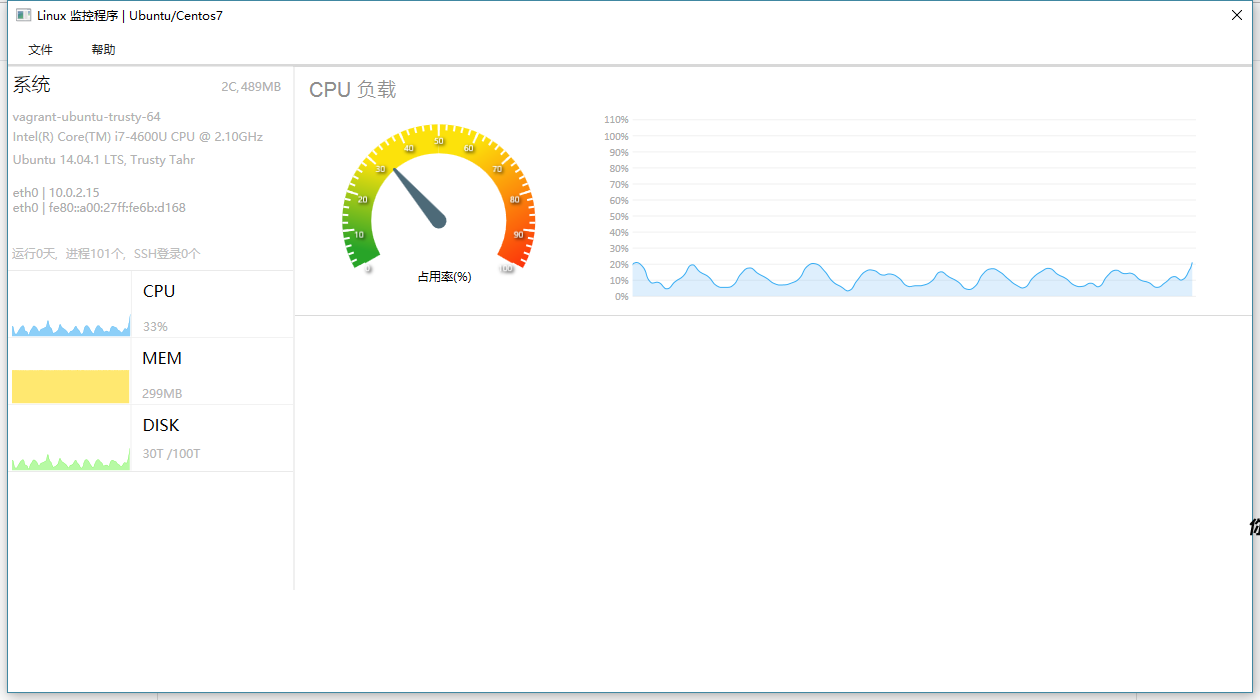
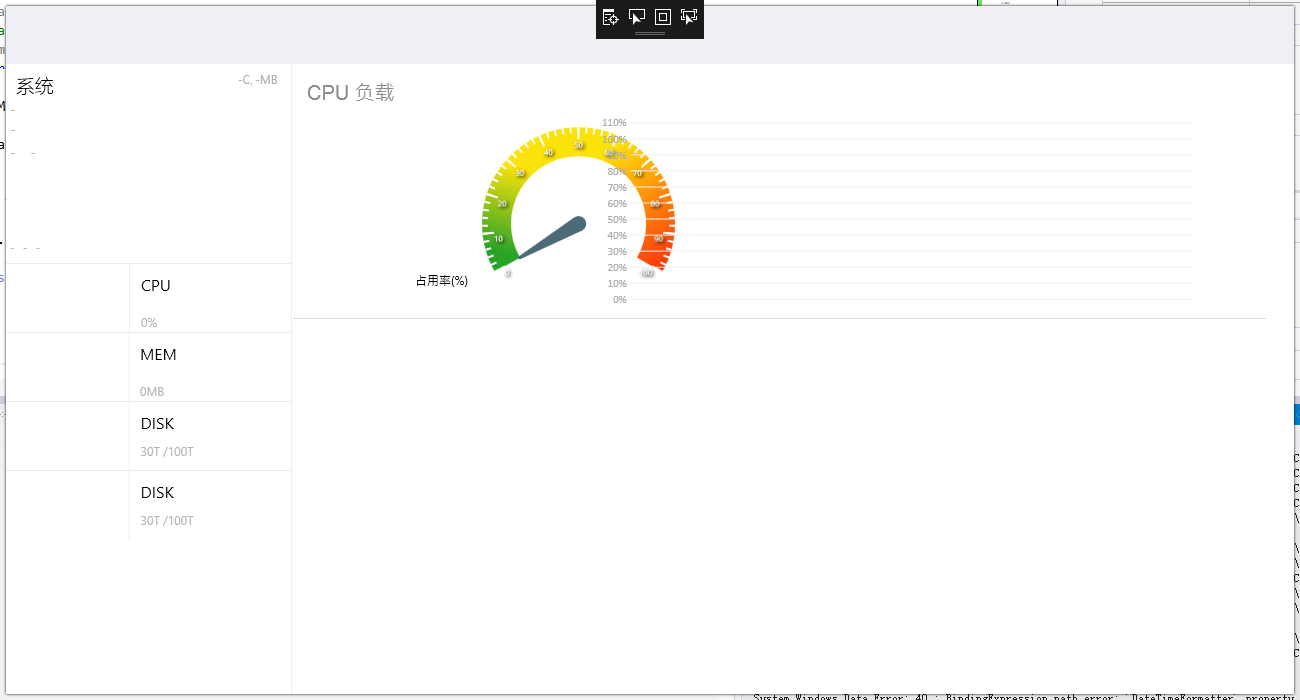
update: adjust theme to white and update readme

diff --git a/Main/Views/MainWindow.xaml b/Main/Views/MainWindow.xaml
@@ -8,14 +8,14 @@
         AllowsTransparency="True"
         x:Name="PrimaryWindow"
         x:Class="Bee.Eye.Views.MainWindow"
-        BorderThickness="25"
+        BorderThickness="6"
         prism:ViewModelLocator.AutoWireViewModel="True"
         Title="{Binding Title}" Height="700" Width="1300" ResizeMode="NoResize">
   <Window.Effect>
-    <DropShadowEffect Opacity="0.3" Direction="90" Color="#FF3A3A3A" ShadowDepth="3" BlurRadius="24"/>
+    <DropShadowEffect Opacity="1" Direction="90" Color="#FF040404" ShadowDepth="0" BlurRadius="4"/>
   </Window.Effect>
   <Grid x:Name="MainGrid" Margin="0,0,0,0">
-    <ContentControl x:Name="NavRegion"  prism:RegionManager.RegionName="NavRegion" MinHeight="30" Margin="0,0,0,475" HorizontalAlignment="Left" Width="1250" Height="175" />
-    <ContentControl x:Name="MainRegion" prism:RegionManager.RegionName="MainRegion" Margin="0,175,0,0" HorizontalAlignment="Left" Width="1250" Height="475"/>
+    <ContentControl x:Name="NavRegion" MouseMove="NavRegion_MouseMove" prism:RegionManager.RegionName="NavRegion" MinHeight="50" Margin="0,0,0,630" HorizontalAlignment="Left" Width="1288" />
+    <ContentControl x:Name="MainRegion" prism:RegionManager.RegionName="MainRegion" Margin="0,58,0,0" HorizontalAlignment="Left" Width="1288"/>
   </Grid>
 </Window>

diff --git a/Dashboard/Views/CapacityPage.xaml b/Dashboard/Views/CapacityPage.xaml
@@ -6,7 +6,7 @@
       xmlns:local="clr-namespace:Dashboard.Views"
       xmlns:Wpf="clr-namespace:LiveCharts.Wpf;assembly=LiveCharts.Wpf" x:Class="Dashboard.Views.CapacityPage"
       mc:Ignorable="d"
-      Title="CapacityPage" Width="1112.069" Height="810.448">
+      Title="CapacityPage" Width="1300" Height="630">
     <Grid>
         <Separator Height="23" Margin="-10,261,10,0" VerticalAlignment="Top" Background="LightGray"/>
         <Wpf:PieChart x:Name="Capacity" Series="{Binding CapacitySeriesCollection}" 

diff --git a/Nav/Views/TopMenu.xaml b/Nav/Views/TopMenu.xaml
@@ -5,6 +5,6 @@
              xmlns:d="http://schemas.microsoft.com/expression/blend/2008" 
              xmlns:local="clr-namespace:Nav.Views"
              mc:Ignorable="d"
-             Background="#FF22CB64" d:DesignWidth="600" Height="175">
-  <Grid d:LayoutOverrides="Width"/>
+             Background="#EEF0F6" d:DesignWidth="600" Height="58">
+  <Grid Margin="0,0,0,0" />
 </UserControl>

diff --git a/Dashboard/Views/OverView.xaml b/Dashboard/Views/OverView.xaml
@@ -6,7 +6,7 @@
              xmlns:local="clr-namespace:Dashboard.Views"
              xmlns:lvc="clr-namespace:LiveCharts.Wpf;assembly=LiveCharts.Wpf"
              xmlns:vm="clr-namespace:Dashboard.ViewModels"
-             mc:Ignorable="d" Width="1250" Height="475">
+             mc:Ignorable="d" Width="1300" Height="630">
 
   <Grid x:Name="FrameContent">
     <Grid.ColumnDefinitions>

diff --git a/Dashboard/Views/IOPage.xaml b/Dashboard/Views/IOPage.xaml
@@ -6,7 +6,7 @@
       xmlns:local="clr-namespace:Dashboard.Views"
       xmlns:lvc="clr-namespace:LiveCharts.Wpf;assembly=LiveCharts.Wpf" x:Class="Dashboard.Views.IOPage"
       mc:Ignorable="d"
-      Title="IOPage" Width="1090.517" Height="645.655">
+      Title="IOPage" Width="1300" Height="630">
 
 
     <Grid Height="279" VerticalAlignment="Top" Margin="0,1,10,0">

diff --git a/Dashboard/Views/LatencyPage.xaml b/Dashboard/Views/LatencyPage.xaml
@@ -8,7 +8,7 @@
     mc:Ignorable="d"
     xmlns:prism="http://prismlibrary.com/"
     prism:ViewModelLocator.AutoWireViewModel="True"
-    Width="1016.517" Height="645.655">
+    Width="1300" Height="630">
 
     <Grid Height="251" VerticalAlignment="Top" Margin="0,1,0,0">
         <Grid.RowDefinitions>

diff --git a/Main/Views/MainWindow.xaml.cs b/Main/Views/MainWindow.xaml.cs
@@ -1,15 +1,24 @@
 using System.Windows;
+using System.Windows.Input;
 
 namespace Bee.Eye.Views
 {
-    /// <summary>
-    /// Interaction logic for MainWindow.xaml
-    /// </summary>
-    public partial class MainWindow : Window
+  /// <summary>
+  /// Interaction logic for MainWindow.xaml
+  /// </summary>
+  public partial class MainWindow : Window
+  {
+    public MainWindow()
     {
-        public MainWindow()
-        {
-            InitializeComponent();
-        }
+      InitializeComponent();
     }
+
+    private void NavRegion_MouseMove(object sender, System.Windows.Input.MouseEventArgs e)
+    {
+      if (e.LeftButton == MouseButtonState.Pressed)
+      {
+        this.DragMove();
+      }
+    }
+  }
 }

diff --git a/README.md b/README.md
@@ -1,6 +1,6 @@
 # bee-eye
 
-bee-eye is fast and simple game server control panel
+fast and simple game server control panel
 
 [![Build status](https://ci.appveyor.com/api/projects/status/y1ahn7y6j6r4vy8o?svg=true)](https://ci.appveyor.com/project/Jamlee/bee-eye)
 
